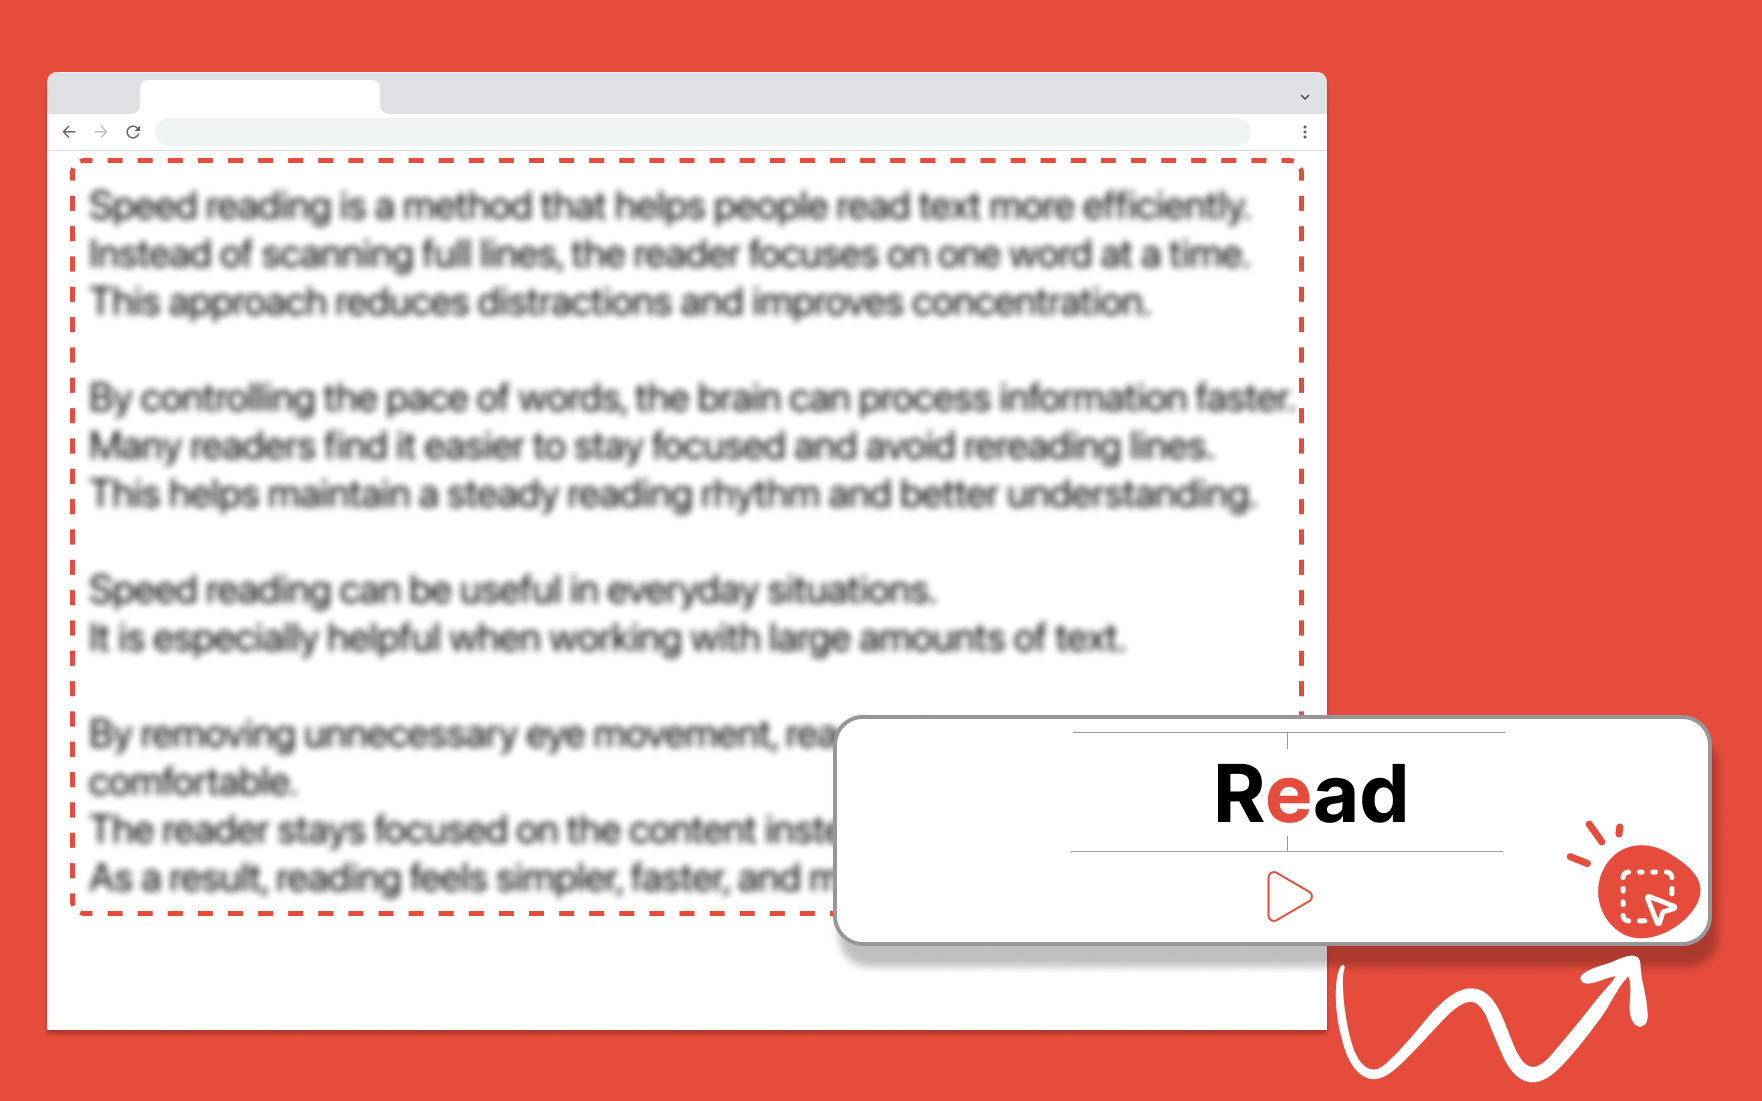
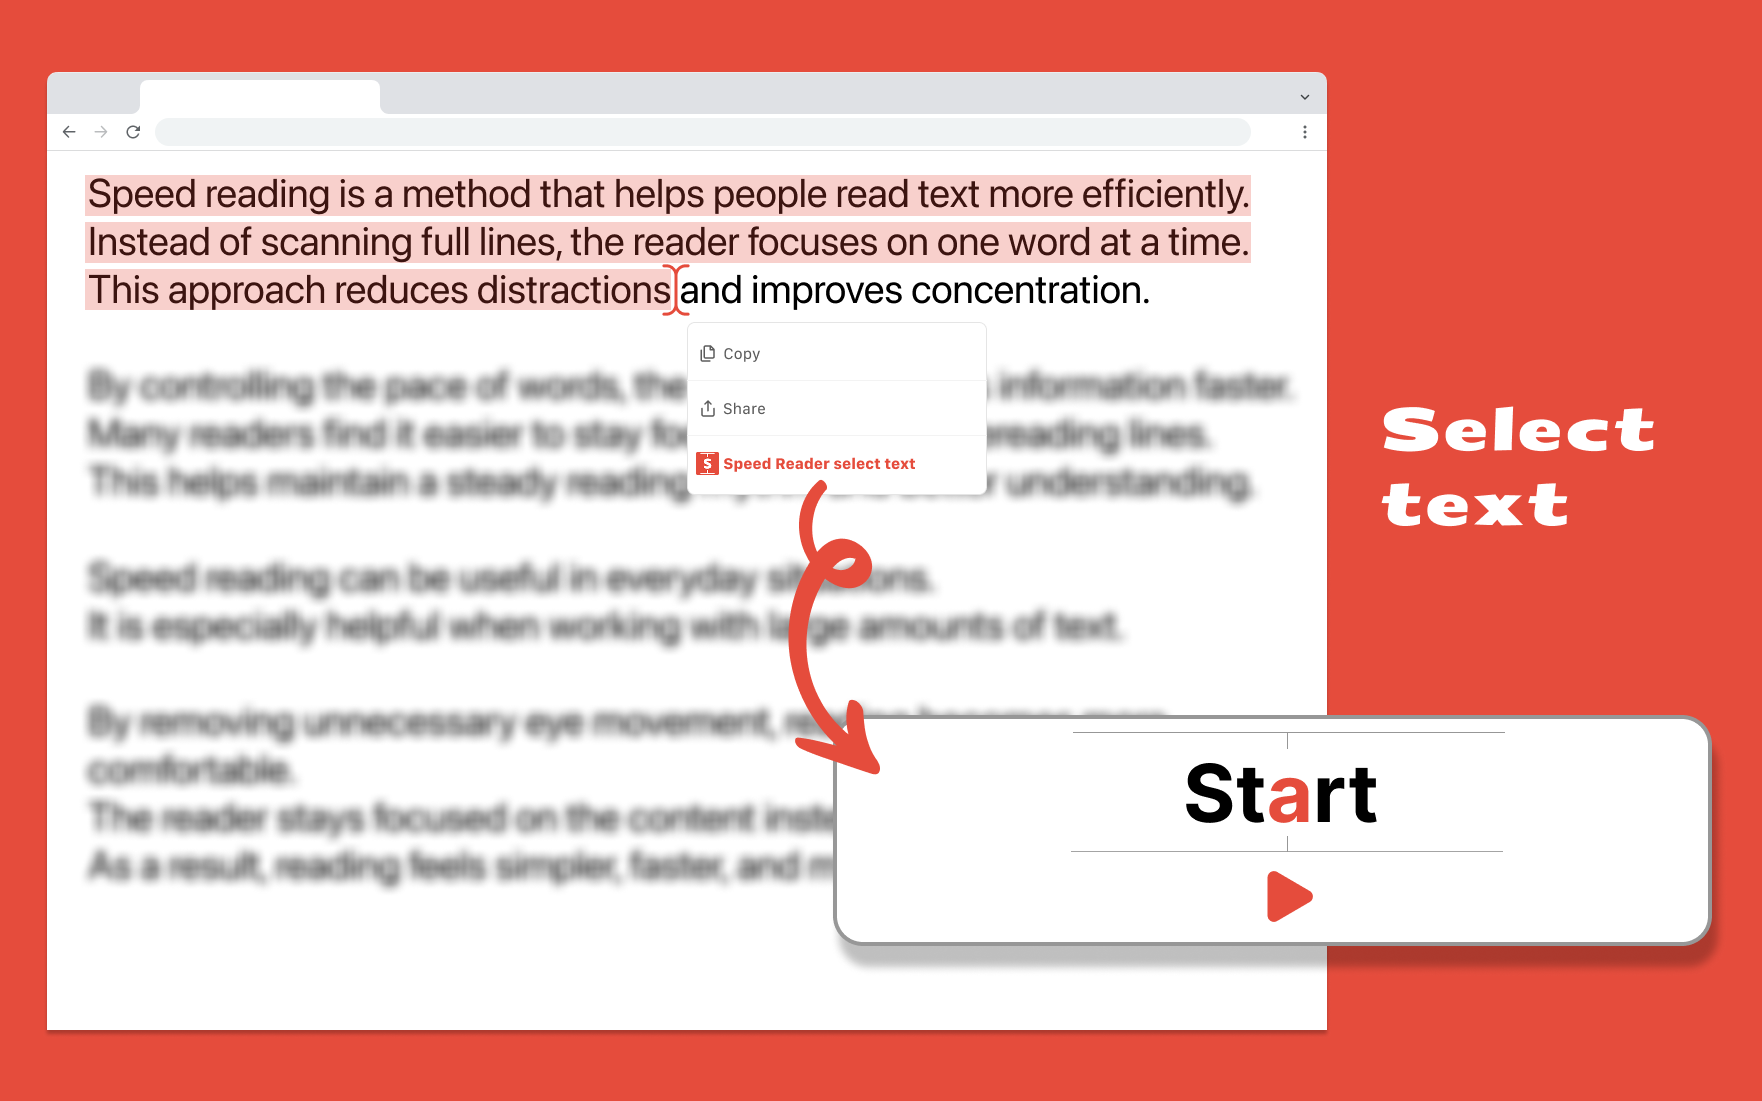
update images

diff --git a/app.js b/app.js
@@ -51,11 +51,21 @@ const guideTemplate = `
     <section class="steps">
         <div class="step">
             <div class="step-content">
+                <h2>Auto parse text</h2>
+                <p>Click the extension icon and Speed Reader will <strong>automatically detect</strong> and parse the main text content on the page — no selection needed.</p>
+            </div>
+            <div class="step-image">
+                <img src="images/guide1.png" alt="Auto parse text feature">
+            </div>
+        </div>
+
+        <div class="step">
+            <div class="step-content">
                 <h2>Context menu</h2>
                 <p>Select any text on the page, right-click and choose <strong>"Speed Reader select text"</strong> from the context menu to instantly start reading.</p>
             </div>
             <div class="step-image">
-                <img src="images/guide1.png" alt="Context menu usage">
+                <img src="images/guide2.png" alt="Context menu usage">
             </div>
         </div>
 
@@ -65,7 +75,7 @@ const guideTemplate = `
                 <p>Click the <strong>Select element</strong> button to pick any element on the page — like an entire article, paragraph, or section — and read it all at once.</p>
             </div>
             <div class="step-image">
-                <img src="images/guide2.png" alt="Select element feature">
+                <img src="images/guide3.png" alt="Select element feature">
             </div>
         </div>
     </section>